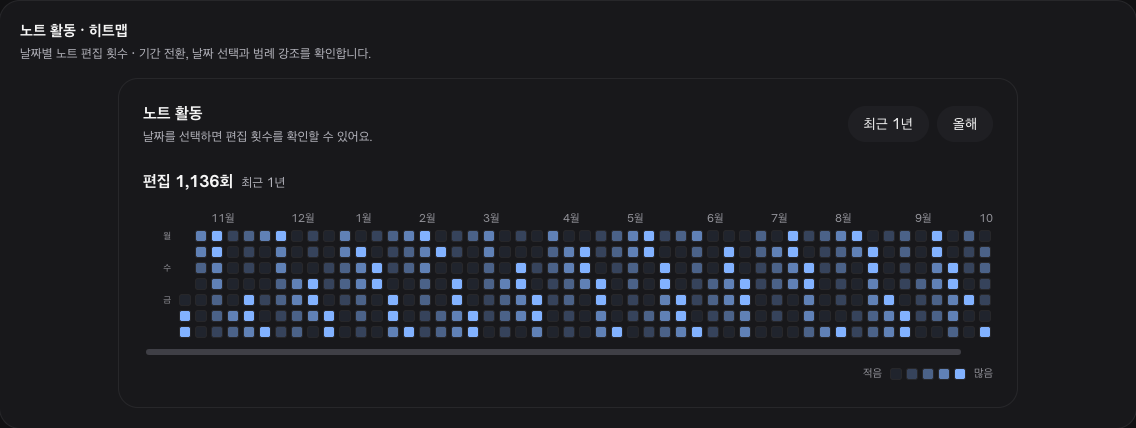
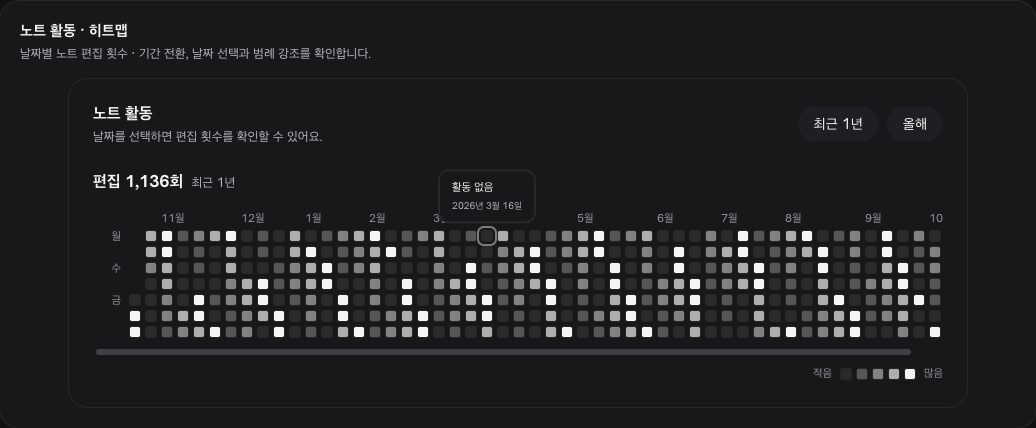
fix: ActivityHeatmap review fixes (tooltip, sweep fill, roving tabindex, perf)
- tooltip: measure the hovered cell instead of magic offsets, sit above the cell, keep mounted so first show is positioned
- sweep animation no longer pins opacity after finishing (legend highlight kept working) and replays on repeated same-direction range changes
- roving tabindex falls back when focus/selection index leaves the range
- NaN counts are ignored; reduced-motion skips wave delay
- memoize cells/weekdays/format fns; level description no longer repeats ranges
- weekday labels use --fs-xs; selection ring glides
- tests: duplicates, negative/NaN/invalid dates, thresholds, weekStartsOn 0/1, months
- refresh light/dark design-lab captures

Claude-Session: https://claude.ai/code/session_01CVZ4cYbQXTWCGHtQQXEqgd

diff --git a/app/apps/desktop/src/components/kit/ActivityHeatmap.tsx b/app/apps/desktop/src/components/kit/ActivityHeatmap.tsx
@@ -1,7 +1,7 @@
 // SPDX-License-Identifier: Apache-2.0
 // Adapted from the user-provided heatmap-src.tsx; original author and license are unverified.
-import { useEffect, useId, useMemo, useRef, useState, type CSSProperties, type KeyboardEvent, type ReactNode } from "react";
-import { AnimatePresence, animate, motion, useMotionValue } from "motion/react";
+import { useEffect, useId, useLayoutEffect, useMemo, useRef, useState, type CSSProperties, type KeyboardEvent, type ReactNode } from "react";
+import { animate, motion, useMotionValue } from "motion/react";
 import { SNAPPY, useSpring } from "./motion";
 import "./ActivityHeatmap.css";
 
@@ -31,7 +31,7 @@ export function buildModel(days: ActivityDay[], weekStartsOn: 0 | 1, thresholds:
   const counts = new Array<number>(length).fill(0);
   days.forEach(({ date, count }) => {
     const index = Math.round((toUtc(date) - start) / DAY);
-    if (Number.isFinite(index) && index >= 0 && index < length) counts[index] += Math.max(0, count);
+    if (Number.isFinite(index) && index >= 0 && index < length) counts[index] += Number.isFinite(count) ? Math.max(0, count) : 0;
   });
   const max = Math.max(0, ...counts);
   const bounds = thresholds ?? [Math.max(1, Math.ceil(max * .25)), Math.max(2, Math.ceil(max * .5)), Math.max(3, Math.ceil(max * .75))];
@@ -49,7 +49,7 @@ export function buildModel(days: ActivityDay[], weekStartsOn: 0 | 1, thresholds:
   return { start, length, lead, weeks, total: counts.reduce((a, b) => a + b, 0), counts, levels, thresholds: bounds, months, perLevel };
 }
 
-export function ActivityHeatmap({ days, label, period, locale = "ko-KR", weekStartsOn = 1, thresholds, selectedDate = null, onSelectDate, actions, className, formatCount, noActivityLabel = "활동 없음", lessLabel = "적음", moreLabel = "많음", highlightLabel = "단계별 날짜 강조", levelDescription = ranges => `색이 진할수록 편집 횟수가 많아요. ${ranges.join(", ")}`, daysWithLabel = (count, range) => `${count}일 · ${range}` }: ActivityHeatmapProps) {
+export function ActivityHeatmap({ days, label, period, locale = "ko-KR", weekStartsOn = 1, thresholds, selectedDate = null, onSelectDate, actions, className, formatCount, noActivityLabel = "활동 없음", lessLabel = "적음", moreLabel = "많음", highlightLabel = "단계별 날짜 강조", levelDescription = ranges => `색이 진할수록 편집 횟수가 많아요. 단계: ${ranges.join(", ")}.`, daysWithLabel = (count, range) => `${count}일 · ${range}` }: ActivityHeatmapProps) {
   const id = useId();
   const model = useMemo(() => buildModel(days, weekStartsOn, thresholds, locale), [days, weekStartsOn, thresholds, locale]);
   const spring = useSpring(SNAPPY);
@@ -57,47 +57,65 @@ export function ActivityHeatmap({ days, label, period, locale = "ko-KR", weekSta
   const [direction, setDirection] = useState<"forward" | "back" | undefined>();
   const previousStart = useRef(model.start);
   useEffect(() => { const timer = window.setTimeout(() => setReveal("done"), 1120); return () => window.clearTimeout(timer); }, []);
-  useEffect(() => { if (previousStart.current !== model.start) { setDirection(model.start < previousStart.current ? "back" : "forward"); previousStart.current = model.start; } }, [model.start]);
+  // The sweep keeps `animation-fill-mode: both`, which would pin opacity and mask the legend highlight; clear it once finished so the next sweep also replays.
+  useEffect(() => {
+    if (previousStart.current === model.start) return;
+    setDirection(model.start < previousStart.current ? "back" : "forward");
+    previousStart.current = model.start;
+    const timer = window.setTimeout(() => setDirection(undefined), 1100);
+    return () => window.clearTimeout(timer);
+  }, [model.start]);
   const number = useMemo(() => new Intl.NumberFormat(locale), [locale]);
-  const fmtCount = formatCount ?? ((count: number) => `편집 ${number.format(count)}회`);
+  const fmtCount = useMemo(() => formatCount ?? ((count: number) => `편집 ${number.format(count)}회`), [formatCount, number]);
   const dateFormat = useMemo(() => new Intl.DateTimeFormat(locale, { weekday: "long", month: "long", day: "numeric", year: "numeric", timeZone: "UTC" }), [locale]);
   const shortDate = useMemo(() => new Intl.DateTimeFormat(locale, { month: "short", day: "numeric", year: "numeric", timeZone: "UTC" }), [locale]);
   const selectedIndex = selectedDate ? Math.round((toUtc(selectedDate) - model.start) / DAY) : -1;
+  const hasSelection = selectedIndex >= 0 && selectedIndex < model.length;
   const [focusIndex, setFocusIndex] = useState<number | null>(null);
   const [tip, setTip] = useState<number | null>(null);
   const rootRef = useRef<HTMLElement>(null);
   const tipX = useMotionValue(0), tipY = useMotionValue(0);
-  useEffect(() => {
-    if (tip === null || !rootRef.current) return;
+  // Always-mounted tooltip: a freshly mounted motion element ignores MotionValue writes made right after mount.
+  const lastTip = useRef(0);
+  if (tip !== null) lastTip.current = tip;
+  const shownTip = Math.min(lastTip.current, Math.max(0, model.length - 1));
+  const tipOpen = useRef(false);
+  useLayoutEffect(() => {
+    if (tip === null || !rootRef.current) { tipOpen.current = false; return; }
     const root = rootRef.current;
+    const glide = tipOpen.current;
+    tipOpen.current = true;
     const scroller = root.querySelector<HTMLElement>(".kit-heatmap-scroller");
     let stopPosition = () => {};
-    const position = () => {
+    const position = (glideTo = true) => {
       stopPosition();
-      const style = getComputedStyle(root);
-      const cell = parseFloat(style.getPropertyValue("--cell")) || 12;
-      const gap = parseFloat(style.getPropertyValue("--gap")) || 4;
-      const labelWidth = parseFloat(style.getPropertyValue("--label")) || 28;
-      const col = Math.floor((tip + model.lead) / 7), row = (tip + model.lead) % 7;
-      const x = Math.max(32, Math.min(labelWidth + 8 + col * (cell + gap) + cell / 2 - (scroller?.scrollLeft ?? 0), root.clientWidth - 32));
-      const xAnimation = animate(tipX, x, spring), yAnimation = animate(tipY, 58 + row * (cell + gap), spring);
+      const cell = root.querySelector<HTMLElement>(`[data-index="${tip}"]`);
+      if (!cell) return;
+      const box = root.getBoundingClientRect(), rect = cell.getBoundingClientRect();
+      const x = Math.max(32, Math.min(rect.left - box.left + rect.width / 2, root.clientWidth - 32));
+      const y = rect.top - box.top;
+      if (!glideTo) { tipX.jump(x); tipY.jump(y); return; }
+      const xAnimation = animate(tipX, x, spring), yAnimation = animate(tipY, y, spring);
       stopPosition = () => { xAnimation.stop(); yAnimation.stop(); };
     };
-    position();
-    const onScroll = position;
+    position(glide);
+    const onScroll = () => position();
     scroller?.addEventListener("scroll", onScroll, { passive: true });
     return () => { stopPosition(); scroller?.removeEventListener("scroll", onScroll); };
-  }, [tip, model.lead, spring, tipX, tipY]);
+  }, [tip, model, spring, tipX, tipY]);
   const [preview, setPreview] = useState<number | null>(null);
   const [pinned, setPinned] = useState<number | null>(null);
   const [legendFocus, setLegendFocus] = useState(0);
   const highlight = preview ?? pinned;
   const bounds = model.thresholds;
-  const ranges = ["활동 없음", `1–${bounds[0]}회`, `${bounds[0] + 1}–${bounds[1]}회`, `${bounds[1] + 1}–${bounds[2]}회`, `${bounds[2] + 1}회 이상`];
-  const weekdays = Array.from({ length: 7 }, (_, row) => {
-    const weekday = (row + weekStartsOn) % 7;
-    return weekday % 2 ? new Intl.DateTimeFormat(locale, { weekday: "short", timeZone: "UTC" }).format(new Date((3 + weekday) * DAY)) : "";
-  });
+  const ranges = useMemo(() => [noActivityLabel, `1–${number.format(bounds[0])}회`, `${number.format(bounds[0] + 1)}–${number.format(bounds[1])}회`, `${number.format(bounds[1] + 1)}–${number.format(bounds[2])}회`, `${number.format(bounds[2] + 1)}회 이상`], [noActivityLabel, number, bounds]);
+  const weekdays = useMemo(() => {
+    const format = new Intl.DateTimeFormat(locale, { weekday: "short", timeZone: "UTC" });
+    return Array.from({ length: 7 }, (_, row) => {
+      const weekday = (row + weekStartsOn) % 7;
+      return weekday % 2 ? format.format(new Date((3 + weekday) * DAY)) : "";
+    });
+  }, [locale, weekStartsOn]);
   const moveFocus = (index: number) => document.querySelector<HTMLElement>(`#${CSS.escape(id)} [data-index="${index}"]`)?.focus();
   const onKeyDown = (event: KeyboardEvent<HTMLDivElement>) => {
     const cell = (event.target as HTMLElement).closest<HTMLElement>("[data-index]");
@@ -109,24 +127,27 @@ export function ActivityHeatmap({ days, label, period, locale = "ko-KR", weekSta
     else if (event.key === "Escape") setTip(null);
   };
   const maxDiagonal = Math.max(1, model.weeks + 5);
+  const tabIndexDay = focusIndex !== null && focusIndex < model.length ? focusIndex : hasSelection ? selectedIndex : model.length - 1;
+  // Memoized so hover/legend state changes do not rebuild ~370 buttons; handlers only call stable setters.
+  const cells = useMemo(() => Array.from({ length: 7 }, (_, row) => <div role="row" className="kit-heatmap-row" key={row}>{Array.from({ length: model.weeks }, (_, col) => {
+    const i = col * 7 + row - model.lead;
+    if (i < 0 || i >= model.length) return <span className="kit-heatmap-cell" data-empty="" key={col} aria-hidden="true" />;
+    const count = model.counts[i], date = new Date(model.start + i * DAY), level = model.levels[i];
+    return <button key={col} type="button" role="gridcell" className="kit-heatmap-cell" style={{ "--wave": Math.round((col + row) / maxDiagonal * 420), "--wave-back": Math.round((maxDiagonal - col - row) / maxDiagonal * 420) } as CSSProperties} data-index={i} data-level={level} data-col={col} data-row={row} tabIndex={i === tabIndexDay ? 0 : -1} aria-selected={onSelectDate ? i === selectedIndex : undefined} aria-label={`${count ? fmtCount(count) : noActivityLabel}, ${dateFormat.format(date)}`} onFocus={() => { setFocusIndex(i); setTip(i); }} onBlur={() => setTip(null)} onPointerEnter={() => setTip(i)} onPointerLeave={() => { const active = document.activeElement as HTMLElement | null; setTip(active?.matches(".kit-heatmap-cell[data-index]:focus-visible") ? Number(active.dataset.index) : null); }} onClick={() => onSelectDate?.(toIso(date.getTime()))} />;
+  })}</div>), [model, maxDiagonal, tabIndexDay, selectedIndex, onSelectDate, fmtCount, noActivityLabel, dateFormat]);
   return <section ref={rootRef} className={`kit-heatmap ${className ?? ""}`} aria-label={label}>
     <header className="kit-heatmap-header"><p className="kit-heatmap-summary"><strong>{fmtCount(model.total)}</strong><span>{period}</span><span className="kit-heatmap-sr" role="status">{fmtCount(model.total)} · {period}</span></p>{actions && <div className="kit-heatmap-actions">{actions}</div>}</header>
     <div className="kit-heatmap-scroller"><div className="kit-heatmap-canvas" style={{ "--weeks": model.weeks } as CSSProperties}>
       <div className="kit-heatmap-months" aria-hidden="true">{model.months.map((m, i) => <span key={`${m.month}-${i}`} style={{ "--col": m.col } as CSSProperties}>{m.label}</span>)}</div>
       <div className="kit-heatmap-weekdays" aria-hidden="true">{weekdays.map((day, i) => <span key={i}>{day}</span>)}</div>
       <div className="kit-heatmap-plot"><div id={id} role="grid" aria-label={label} aria-readonly="true" aria-describedby={`${id}-legend`} className="kit-heatmap-grid" data-reveal={reveal} data-direction={direction} data-highlight={highlight ?? undefined} onKeyDown={onKeyDown}>
-        {Array.from({ length: 7 }, (_, row) => <div role="row" className="kit-heatmap-row" key={row}>{Array.from({ length: model.weeks }, (_, col) => {
-          const i = col * 7 + row - model.lead;
-          if (i < 0 || i >= model.length) return <span className="kit-heatmap-cell" data-empty="" key={col} aria-hidden="true" />;
-          const count = model.counts[i], date = new Date(model.start + i * DAY), level = model.levels[i];
-          return <button key={col} type="button" role="gridcell" className="kit-heatmap-cell" style={{ "--wave": Math.round((col + row) / maxDiagonal * 420), "--wave-back": Math.round((maxDiagonal - col - row) / maxDiagonal * 420) } as CSSProperties} data-index={i} data-level={level} data-col={col} data-row={row} tabIndex={i === (focusIndex ?? (selectedIndex >= 0 ? selectedIndex : model.length - 1)) ? 0 : -1} aria-selected={onSelectDate ? i === selectedIndex : undefined} aria-label={`${count ? fmtCount(count) : noActivityLabel}, ${dateFormat.format(date)}`} onFocus={() => { setFocusIndex(i); setTip(i); }} onBlur={() => setTip(null)} onPointerEnter={() => setTip(i)} onPointerLeave={() => setTip(null)} onClick={() => onSelectDate?.(toIso(date.getTime()))} />;
-        })}</div>)}
-      </div>{selectedIndex >= 0 && selectedIndex < model.length && <span className="kit-heatmap-ring" style={{ "--col": Math.floor((selectedIndex + model.lead) / 7), "--row": (selectedIndex + model.lead) % 7 } as CSSProperties} aria-hidden="true" />}</div>
+        {cells}
+      </div>{hasSelection && <span className="kit-heatmap-ring" style={{ "--col": Math.floor((selectedIndex + model.lead) / 7), "--row": (selectedIndex + model.lead) % 7 } as CSSProperties} aria-hidden="true" />}</div>
     </div></div>
-    <footer className="kit-heatmap-legend"><span id={`${id}-legend`} className="kit-heatmap-sr">{levelDescription(ranges)}. {ranges.join(", ")}</span><span className="kit-heatmap-caption" aria-live="polite">{highlight === null ? "" : daysWithLabel(number.format(model.perLevel[highlight]), ranges[highlight])}</span><span className="kit-heatmap-scale"><span>{lessLabel}</span><div className="kit-heatmap-swatches" role="group" aria-label={highlightLabel} onKeyDown={event => { const f = (event.target as HTMLElement).closest<HTMLElement>("[data-level]"); if (!f) return; const n = Number(f.dataset.level); if (event.key === "Escape") setPreview(null); else if (["ArrowLeft", "ArrowRight", "Home", "End"].includes(event.key)) { event.preventDefault(); const next = event.key === "Home" ? 0 : event.key === "End" ? 4 : Math.max(0, Math.min(4, n + (event.key === "ArrowLeft" ? -1 : 1))); document.querySelector<HTMLElement>(`#${CSS.escape(id)}-legend-buttons [data-level="${next}"]`)?.focus(); } }} id={`${id}-legend-buttons`}>
+    <footer className="kit-heatmap-legend"><span id={`${id}-legend`} className="kit-heatmap-sr">{levelDescription(ranges)}</span><span className="kit-heatmap-caption" aria-live="polite">{highlight === null ? "" : daysWithLabel(number.format(model.perLevel[highlight]), ranges[highlight])}</span><span className="kit-heatmap-scale"><span>{lessLabel}</span><div className="kit-heatmap-swatches" role="group" aria-label={highlightLabel} onKeyDown={event => { const f = (event.target as HTMLElement).closest<HTMLElement>("[data-level]"); if (!f) return; const n = Number(f.dataset.level); if (event.key === "Escape") setPreview(null); else if (["ArrowLeft", "ArrowRight", "Home", "End"].includes(event.key)) { event.preventDefault(); const next = event.key === "Home" ? 0 : event.key === "End" ? 4 : Math.max(0, Math.min(4, n + (event.key === "ArrowLeft" ? -1 : 1))); document.querySelector<HTMLElement>(`#${CSS.escape(id)}-legend-buttons [data-level="${next}"]`)?.focus(); } }} id={`${id}-legend-buttons`}>
       {Array.from({ length: 5 }, (_, level) => <button key={level} type="button" className="kit-heatmap-swatch" data-level={level} tabIndex={level === legendFocus ? 0 : -1} aria-pressed={pinned === level} aria-label={`날짜 강조: ${ranges[level]}`} onPointerEnter={() => setPreview(level)} onPointerLeave={() => setPreview(null)} onFocus={() => { setLegendFocus(level); setPreview(level); }} onBlur={() => setPreview(null)} onClick={() => setPinned(pinned === level ? null : level)} />)}
     </div><span>{moreLabel}</span></span></footer>
-    <AnimatePresence>{tip !== null && <motion.div className="kit-heatmap-tip" style={{ x: tipX, y: tipY }} initial={{ opacity: 0, scale: .96, filter: "blur(4px)" }} animate={{ opacity: 1, scale: 1, filter: "blur(0px)" }} exit={{ opacity: 0, scale: .96, filter: "blur(2px)" }} transition={spring} aria-hidden="true"><span className="kit-heatmap-bubble">{model.counts[tip] ? fmtCount(model.counts[tip]) : noActivityLabel}<small>{shortDate.format(new Date(model.start + tip * DAY))}</small></span></motion.div>}</AnimatePresence>
+    <motion.div className="kit-heatmap-tip" style={{ x: tipX, y: tipY }} initial={false} animate={tip === null ? { opacity: 0, scale: .96, filter: "blur(2px)" } : { opacity: 1, scale: 1, filter: "blur(0px)" }} transition={spring} aria-hidden="true"><span className="kit-heatmap-bubble">{model.counts[shownTip] ? fmtCount(model.counts[shownTip]) : noActivityLabel}<small>{shortDate.format(new Date(model.start + shownTip * DAY))}</small></span></motion.div>
   </section>;
 }
 export default ActivityHeatmap;

diff --git a/app/apps/desktop/src/components/kit/ActivityHeatmap.css b/app/apps/desktop/src/components/kit/ActivityHeatmap.css
@@ -9,7 +9,7 @@
 .kit-heatmap-canvas { display: grid; grid-template-columns: var(--label) max-content; grid-template-rows: 20px max-content; column-gap: var(--sp-2); width: max-content; min-width: 100%; }
 .kit-heatmap-months { grid-column: 2; grid-row: 1; display: grid; grid-template-columns: repeat(var(--weeks), var(--cell)); gap: var(--gap); position: relative; color: var(--text-tertiary); font-size: var(--fs-xs); }
 .kit-heatmap-months span { grid-column: calc(var(--col) + 1); white-space: nowrap; }
-.kit-heatmap-weekdays { grid-column: 1; grid-row: 2; display: grid; grid-template-rows: repeat(7, var(--cell)); gap: var(--gap); color: var(--text-tertiary); font-size: 9px; text-align: right; }
+.kit-heatmap-weekdays { grid-column: 1; grid-row: 2; display: grid; grid-template-rows: repeat(7, var(--cell)); gap: var(--gap); color: var(--text-tertiary); font-size: var(--fs-xs); text-align: right; }
 .kit-heatmap-weekdays span { height: var(--cell); line-height: var(--cell); }
 .kit-heatmap-plot { grid-column: 2; grid-row: 2; position: relative; width: max-content; }
 .kit-heatmap-grid { display: grid; gap: var(--gap); outline: none; }
@@ -26,18 +26,19 @@
 .kit-heatmap-grid[data-direction="back"] .kit-heatmap-cell[data-index] { animation: kit-heatmap-sweep-back 620ms var(--ease) both; animation-delay: calc(var(--wave-back) * 1ms); }
 .kit-heatmap-grid[data-highlight] .kit-heatmap-cell[data-level]:not([data-level="0"]) { opacity: .3; }
 .kit-heatmap-grid[data-highlight="0"] .kit-heatmap-cell[data-level="0"], .kit-heatmap-grid[data-highlight="1"] .kit-heatmap-cell[data-level="1"], .kit-heatmap-grid[data-highlight="2"] .kit-heatmap-cell[data-level="2"], .kit-heatmap-grid[data-highlight="3"] .kit-heatmap-cell[data-level="3"], .kit-heatmap-grid[data-highlight="4"] .kit-heatmap-cell[data-level="4"] { opacity: 1; outline: 1px solid var(--accent); }
-.kit-heatmap-ring { position: absolute; pointer-events: none; left: calc(var(--col) * (var(--cell) + var(--gap))); top: calc(var(--row) * (var(--cell) + var(--gap))); width: var(--cell); height: var(--cell); border: 2px solid var(--accent); border-radius: 4px; transform: scale(1.28); }
+.kit-heatmap-ring { position: absolute; pointer-events: none; left: calc(var(--col) * (var(--cell) + var(--gap))); top: calc(var(--row) * (var(--cell) + var(--gap))); width: var(--cell); height: var(--cell); border: 2px solid var(--accent); border-radius: 4px; transform: scale(1.28); transition: left 160ms var(--ease), top 160ms var(--ease); }
 .kit-heatmap-legend { margin-top: var(--sp-2); color: var(--text-tertiary); font-size: var(--fs-xs); }
 .kit-heatmap-caption { color: var(--text-secondary); }
 .kit-heatmap-scale, .kit-heatmap-swatches { display: flex; align-items: center; gap: var(--sp-1); }
 .kit-heatmap-swatches { margin: 0 var(--sp-1); }
 .kit-heatmap-swatch { --cell: 12px; flex: none; }
 .kit-heatmap-tip { position: absolute; z-index: 2; top: 0; left: 0; pointer-events: none; }
-.kit-heatmap-bubble { display: grid; gap: 2px; padding: var(--sp-2) var(--sp-3); border: 1px solid var(--border); border-radius: var(--radius-md); background: var(--bg-surface); color: var(--text-primary); box-shadow: var(--shadow-md); white-space: nowrap; transform: translateX(-50%); font-size: var(--fs-xs); }
+.kit-heatmap-bubble { display: grid; gap: 2px; padding: var(--sp-2) var(--sp-3); border: 1px solid var(--border); border-radius: var(--radius-md); background: var(--bg-surface); color: var(--text-primary); box-shadow: var(--shadow-md); white-space: nowrap; transform: translate(-50%, calc(-100% - var(--sp-2))); font-size: var(--fs-xs); }
 .kit-heatmap-bubble small { color: var(--text-secondary); }
 .kit-heatmap-sr { position: absolute; width: 1px; height: 1px; padding: 0; margin: -1px; overflow: hidden; clip: rect(0, 0, 0, 0); white-space: nowrap; border: 0; }
 @keyframes kit-heatmap-wave { from { opacity: 0; transform: translateY(3px) scale(.86); } to { opacity: 1; transform: translateY(0) scale(1); } }
 @keyframes kit-heatmap-sweep-forward { from { opacity: .4; } to { opacity: 1; } }
 @keyframes kit-heatmap-sweep-back { from { opacity: .4; } to { opacity: 1; } }
 @media (max-width: 520px) { .kit-heatmap { --cell: 10px; --gap: 3px; --label: 24px; } }
-@media (prefers-reduced-motion: reduce) { .kit-heatmap *, .kit-heatmap *::before, .kit-heatmap *::after { animation-duration: .01ms !important; transition-duration: .01ms !important; scroll-behavior: auto !important; } }
+@media (prefers-reduced-motion: reduce) { .kit-heatmap-cell { animation-delay: 0ms !important; }
+  .kit-heatmap *, .kit-heatmap *::before, .kit-heatmap *::after { animation-duration: .01ms !important; transition-duration: .01ms !important; scroll-behavior: auto !important; } }

diff --git a/app/apps/desktop/src/components/kit/__tests__/ActivityHeatmap.test.ts b/app/apps/desktop/src/components/kit/__tests__/ActivityHeatmap.test.ts
@@ -22,4 +22,44 @@ describe("ActivityHeatmap buildModel", () => {
     expect(model.total).toBe(0);
     expect(model.levels).toEqual([]);
   });
+  it("sums duplicate dates and ignores unsorted order", () => {
+    const model = buildModel([
+      { date: "2026-01-03", count: 1 },
+      { date: "2026-01-01", count: 2 },
+      { date: "2026-01-01", count: 3 },
+    ], 1, [1, 2, 3], "ko-KR");
+    expect(model.length).toBe(3);
+    expect(model.counts).toEqual([5, 0, 1]);
+    expect(model.total).toBe(6);
+  });
+  it("treats negative, NaN and invalid-date input as no activity", () => {
+    const model = buildModel([
+      { date: "2026-01-01", count: -5 },
+      { date: "2026-01-02", count: Number.NaN },
+      { date: "2026-01-03", count: 2 },
+      { date: "not-a-date", count: 9 },
+    ], 1, undefined, "ko-KR");
+    expect(model.counts).toEqual([0, 0, 2]);
+    expect(model.total).toBe(2);
+    expect(model.levels).toEqual([0, 0, 2]);
+  });
+  it("derives default thresholds from the max count", () => {
+    expect(buildModel([{ date: "2026-01-01", count: 0 }], 1, undefined, "ko-KR").thresholds).toEqual([1, 2, 3]);
+    expect(buildModel([{ date: "2026-01-01", count: 40 }], 1, undefined, "ko-KR").thresholds).toEqual([10, 20, 30]);
+  });
+  it("aligns the first column to weekStartsOn 0 and 1", () => {
+    const sunday = [{ date: "2026-01-04", count: 1 }, { date: "2026-01-10", count: 1 }];
+    expect(buildModel(sunday, 0, undefined, "ko-KR")).toMatchObject({ lead: 0, weeks: 1 });
+    expect(buildModel(sunday, 1, undefined, "ko-KR")).toMatchObject({ lead: 6, weeks: 2 });
+    const monday = [{ date: "2026-01-05", count: 1 }];
+    expect(buildModel(monday, 1, undefined, "ko-KR").lead).toBe(0);
+    expect(buildModel(monday, 0, undefined, "ko-KR").lead).toBe(1);
+  });
+  it("counts days per level and labels months in the locale", () => {
+    const days = Array.from({ length: 70 }, (_, i) => ({ date: new Date(Date.UTC(2026, 0, 1 + i)).toISOString().slice(0, 10), count: i % 2 }));
+    const model = buildModel(days, 1, [1, 2, 3], "ko-KR");
+    expect(model.perLevel.reduce((a, b) => a + b, 0)).toBe(70);
+    expect(model.perLevel[0]).toBe(35);
+    expect(model.months.map(m => m.label)).toEqual(["1월", "2월", "3월"]);
+  });
 });
